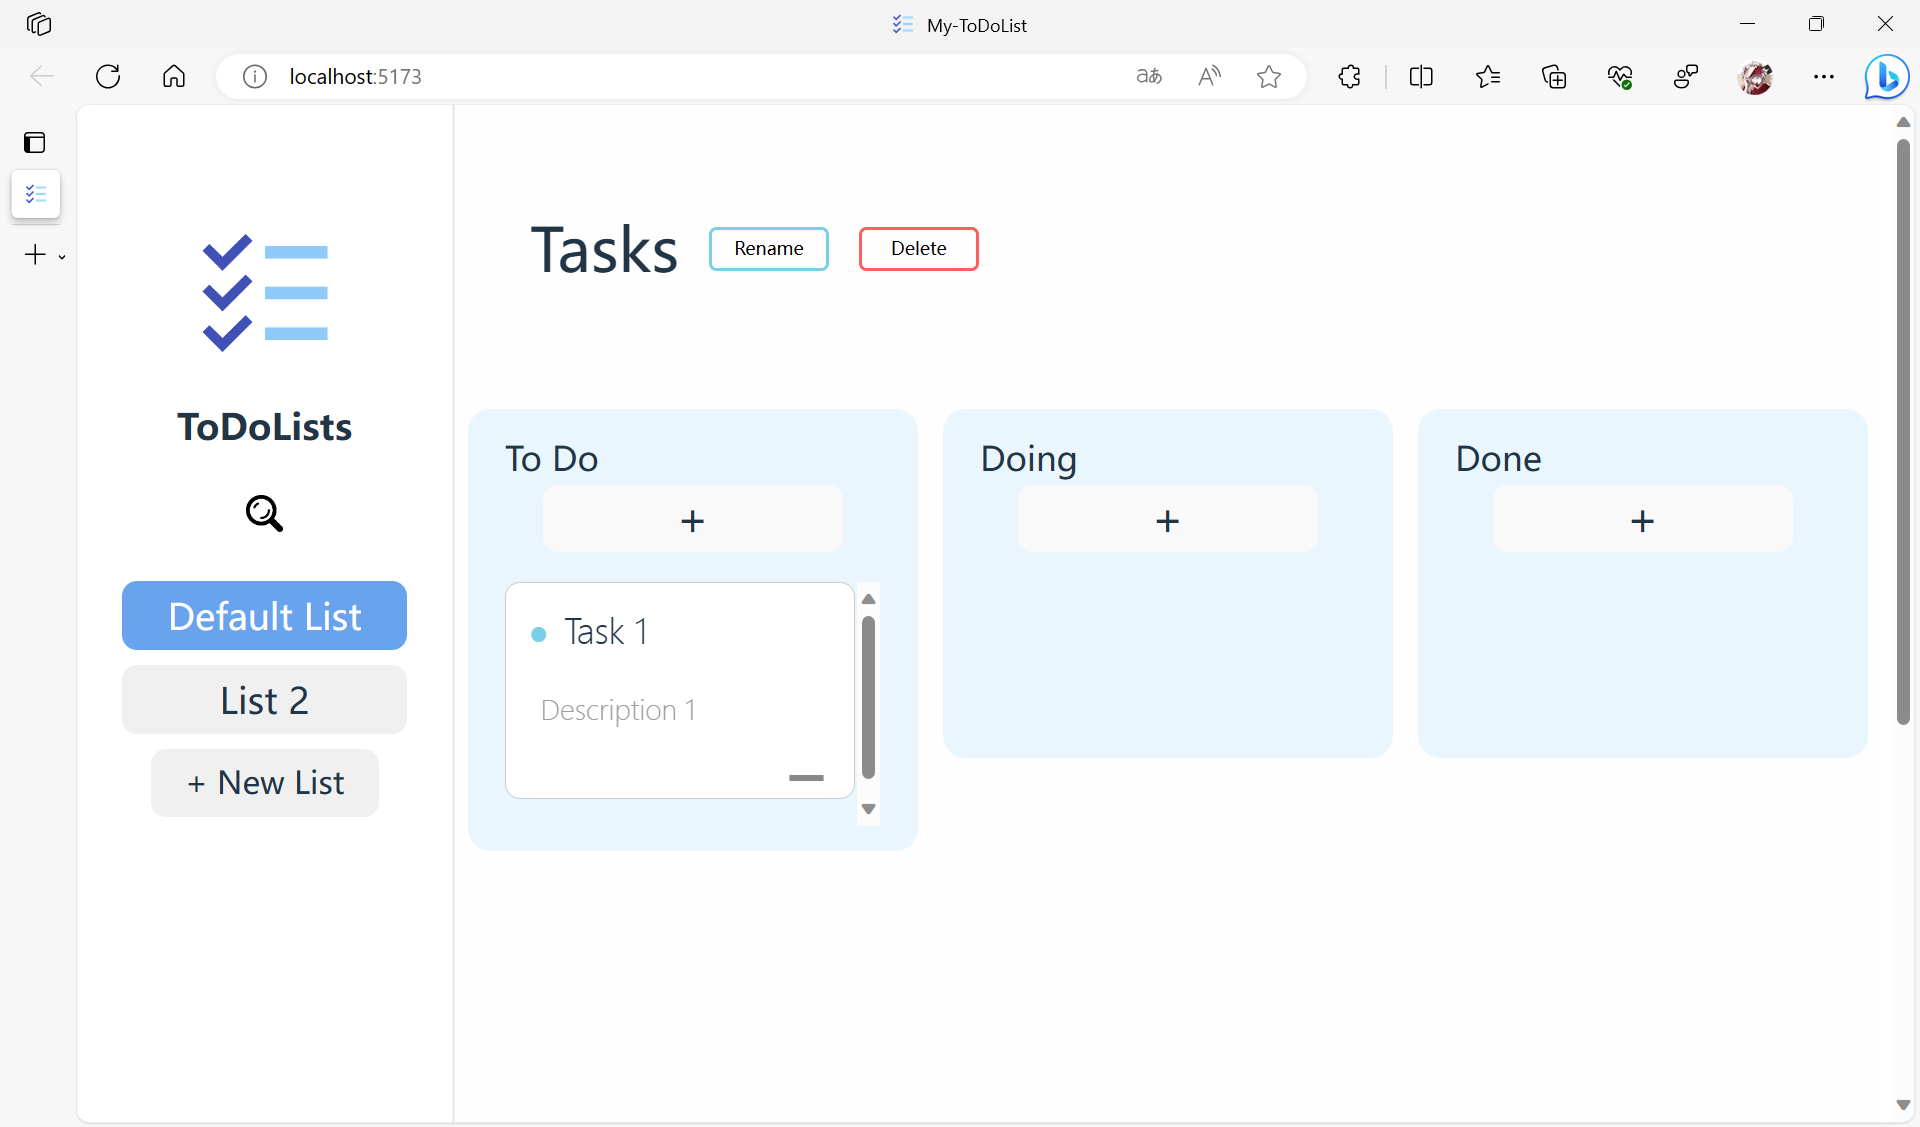
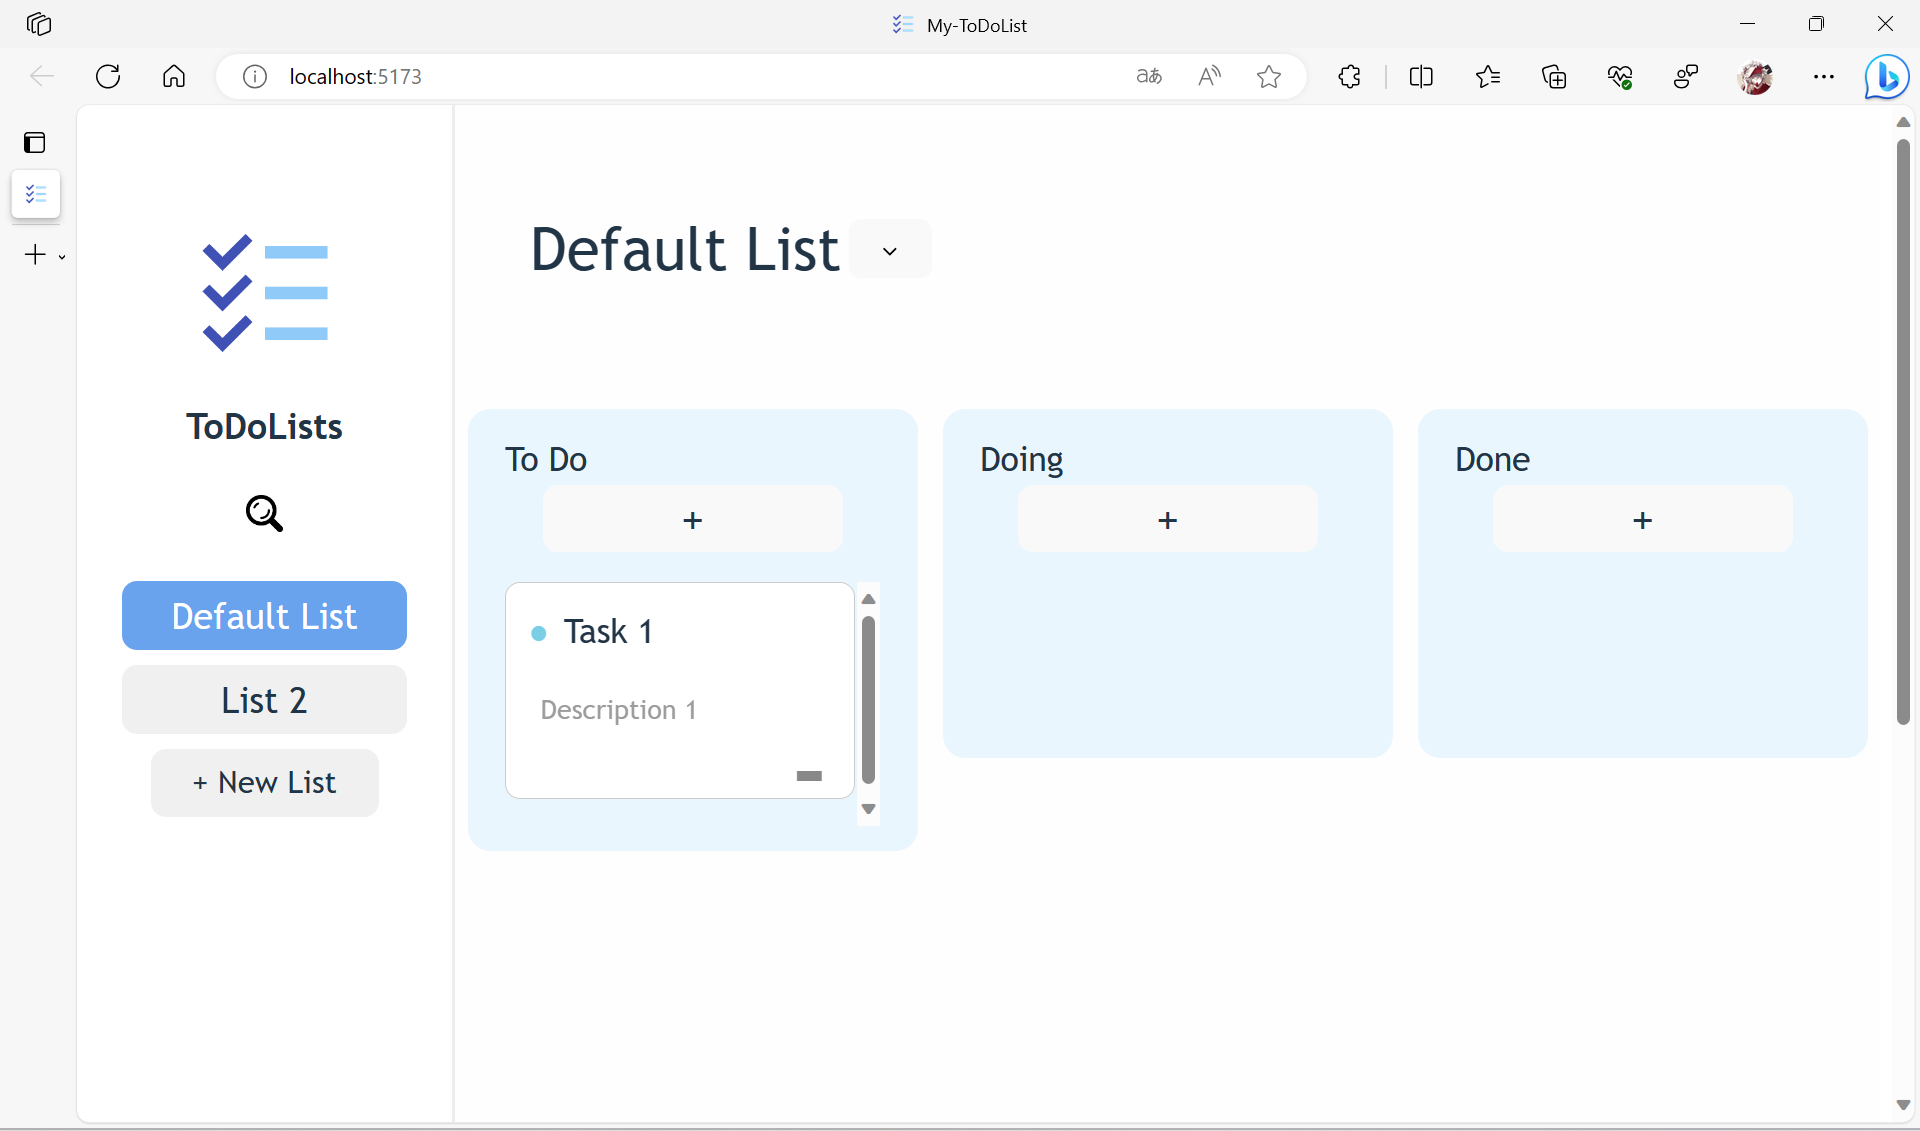
Fix: Font & Transparent Caret

diff --git a/src/App.css b/src/App.css
@@ -16,3 +16,8 @@
     min-width: 950px;
     background-color: #fefefe;
 }
+
+div, span, p, h1, h2, h3, h4, h5, h6, ul, li, a, button, input, img {
+    caret-color: transparent;
+    font-family: "Trebuchet MS", Helvetica, sans-serif;
+}
